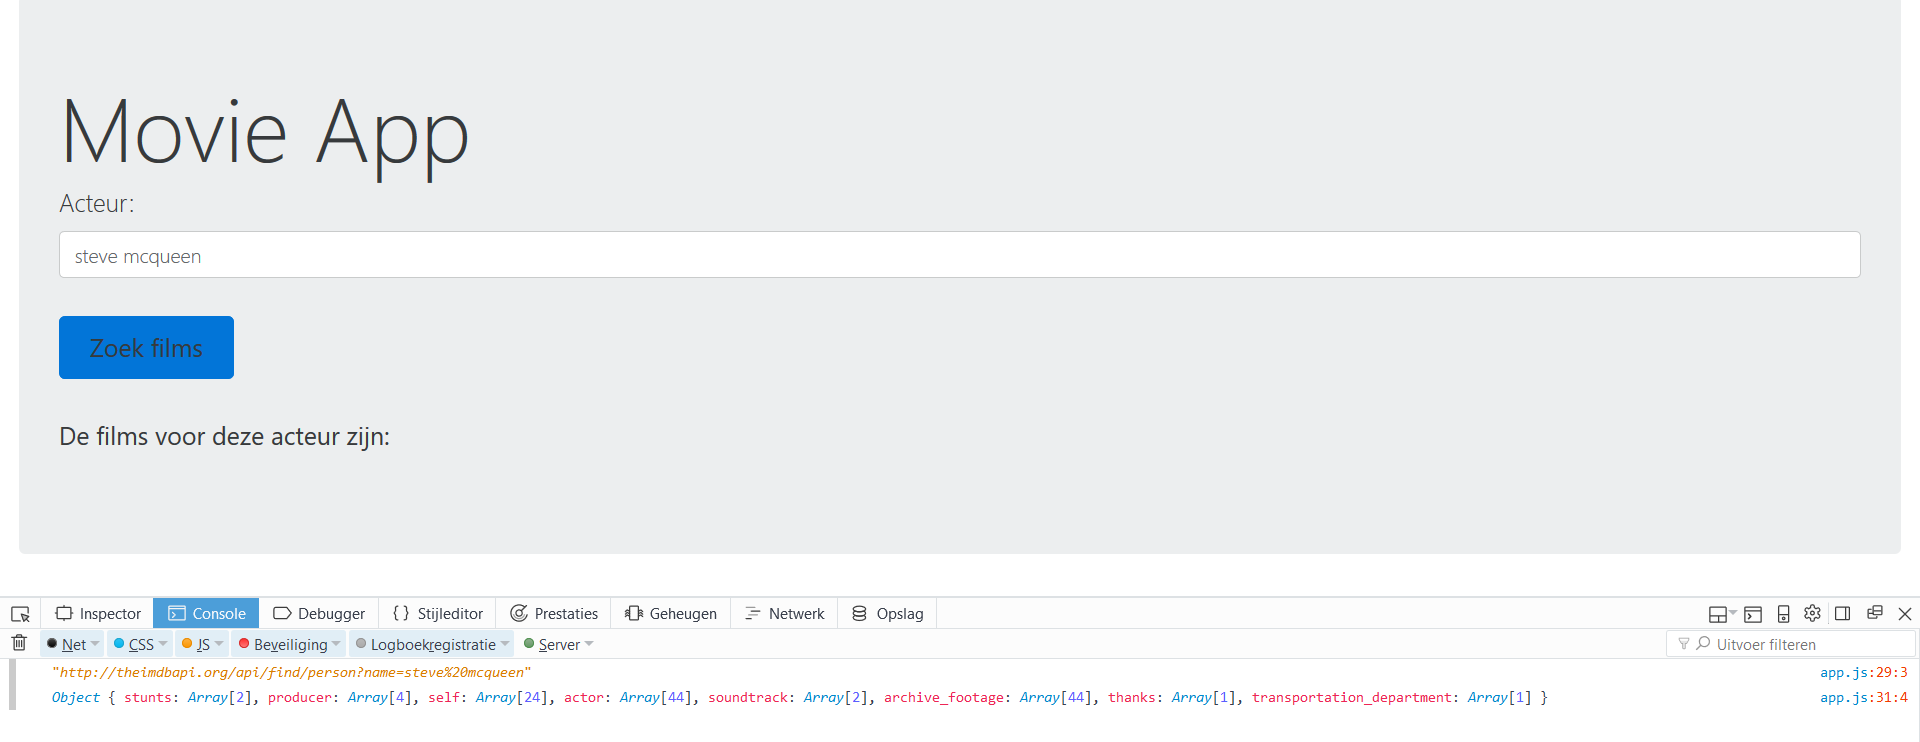
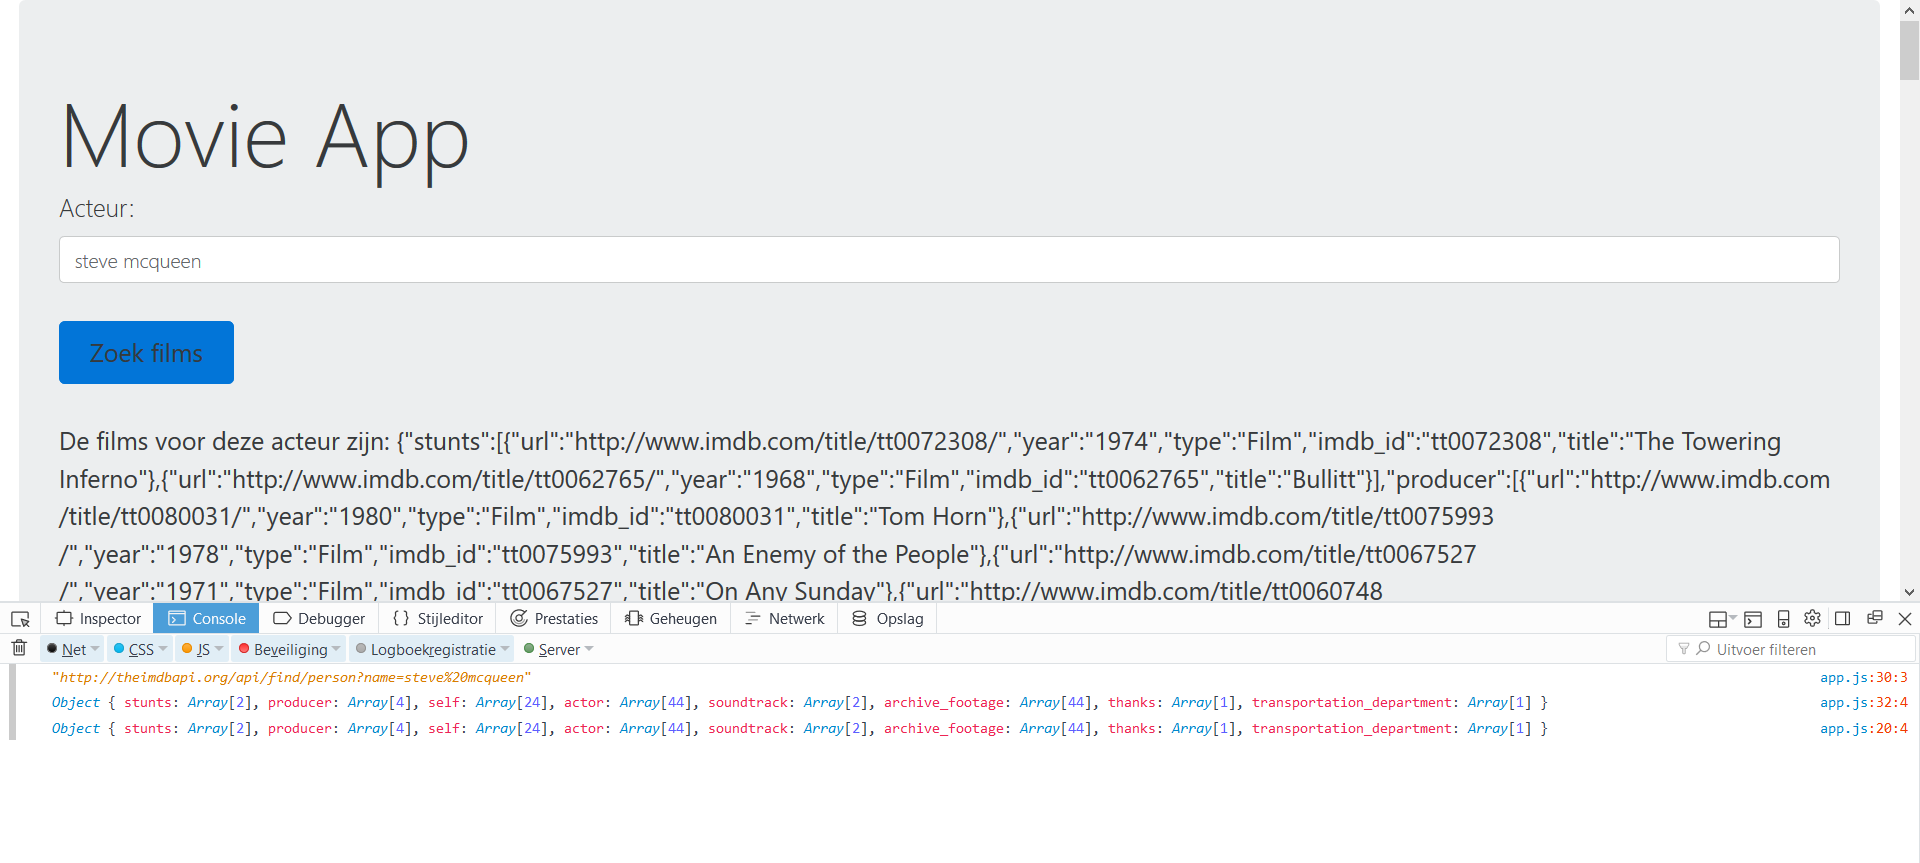
ophalen en tonen van de filmography

Changed region(s): [[0.0, 0.124, 0.9688, 0.9609], [0.875, 0.7129, 1.0, 0.9609], [0.9688, 0.031, 1.0, 0.093]]

diff --git a/app/_attachments/scripts/app.js b/app/_attachments/scripts/app.js
@@ -16,7 +16,8 @@ angular.module('movieApp', ['ngRoute'])
 		$scope.films = '';
 		var acteur = $('#acteurText').val();
 		filmSrv.getFilmography(acteur).then(function(data){
-
+			$scope.films = data;
+			console.log($scope.films);
 		});
 	});
 })
